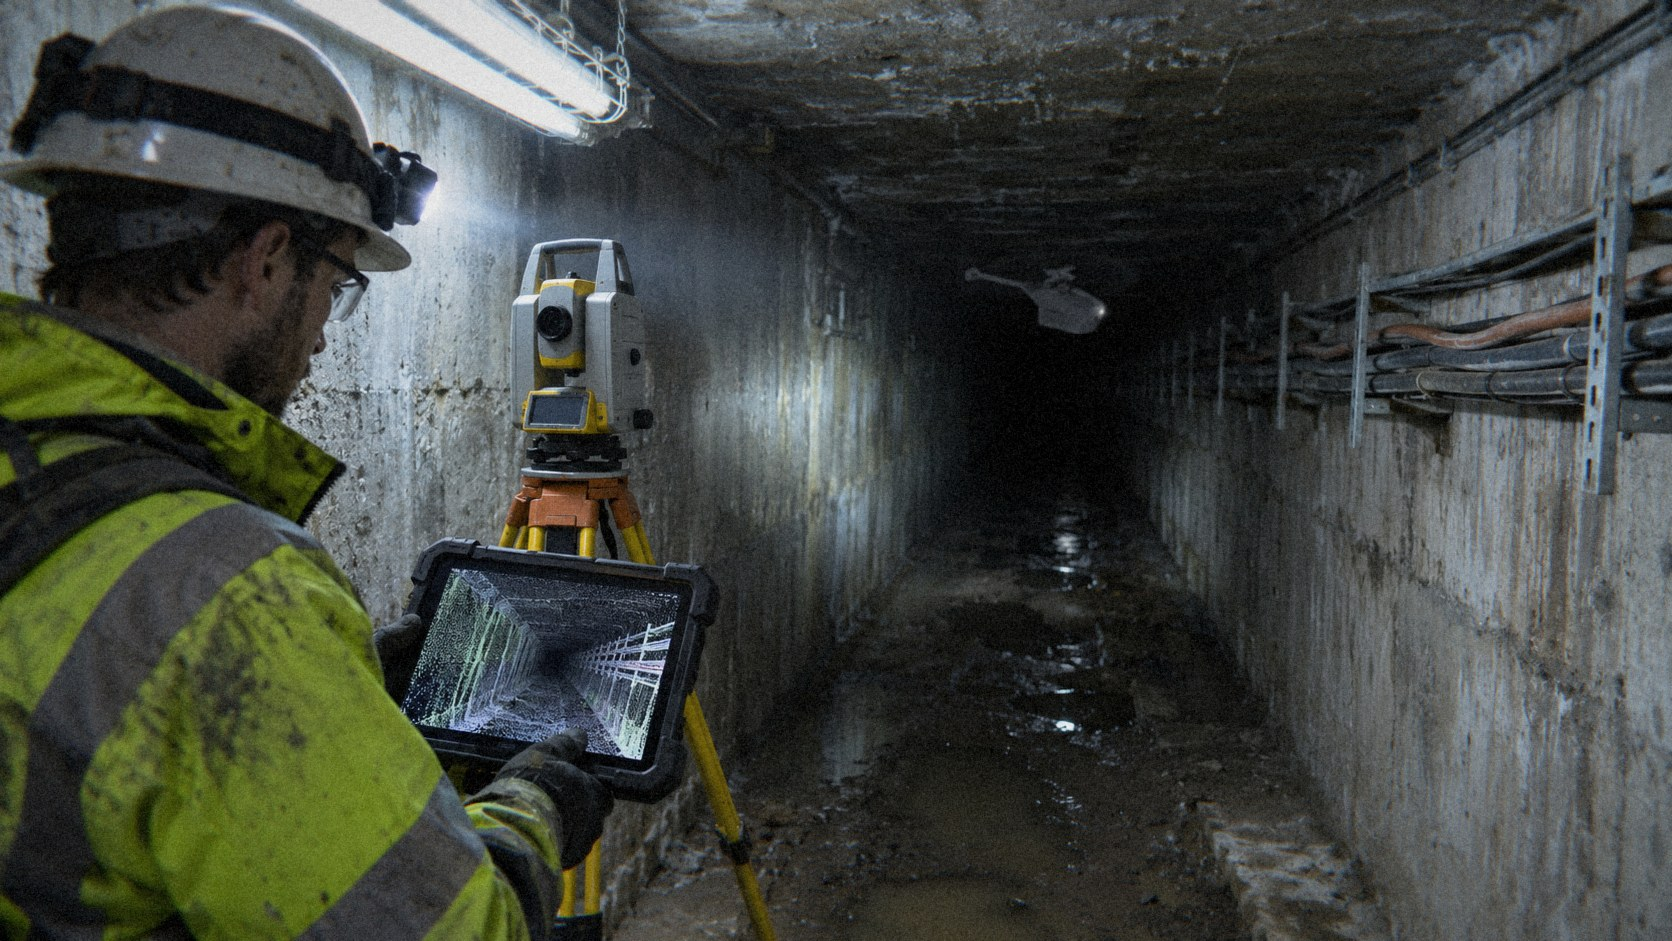
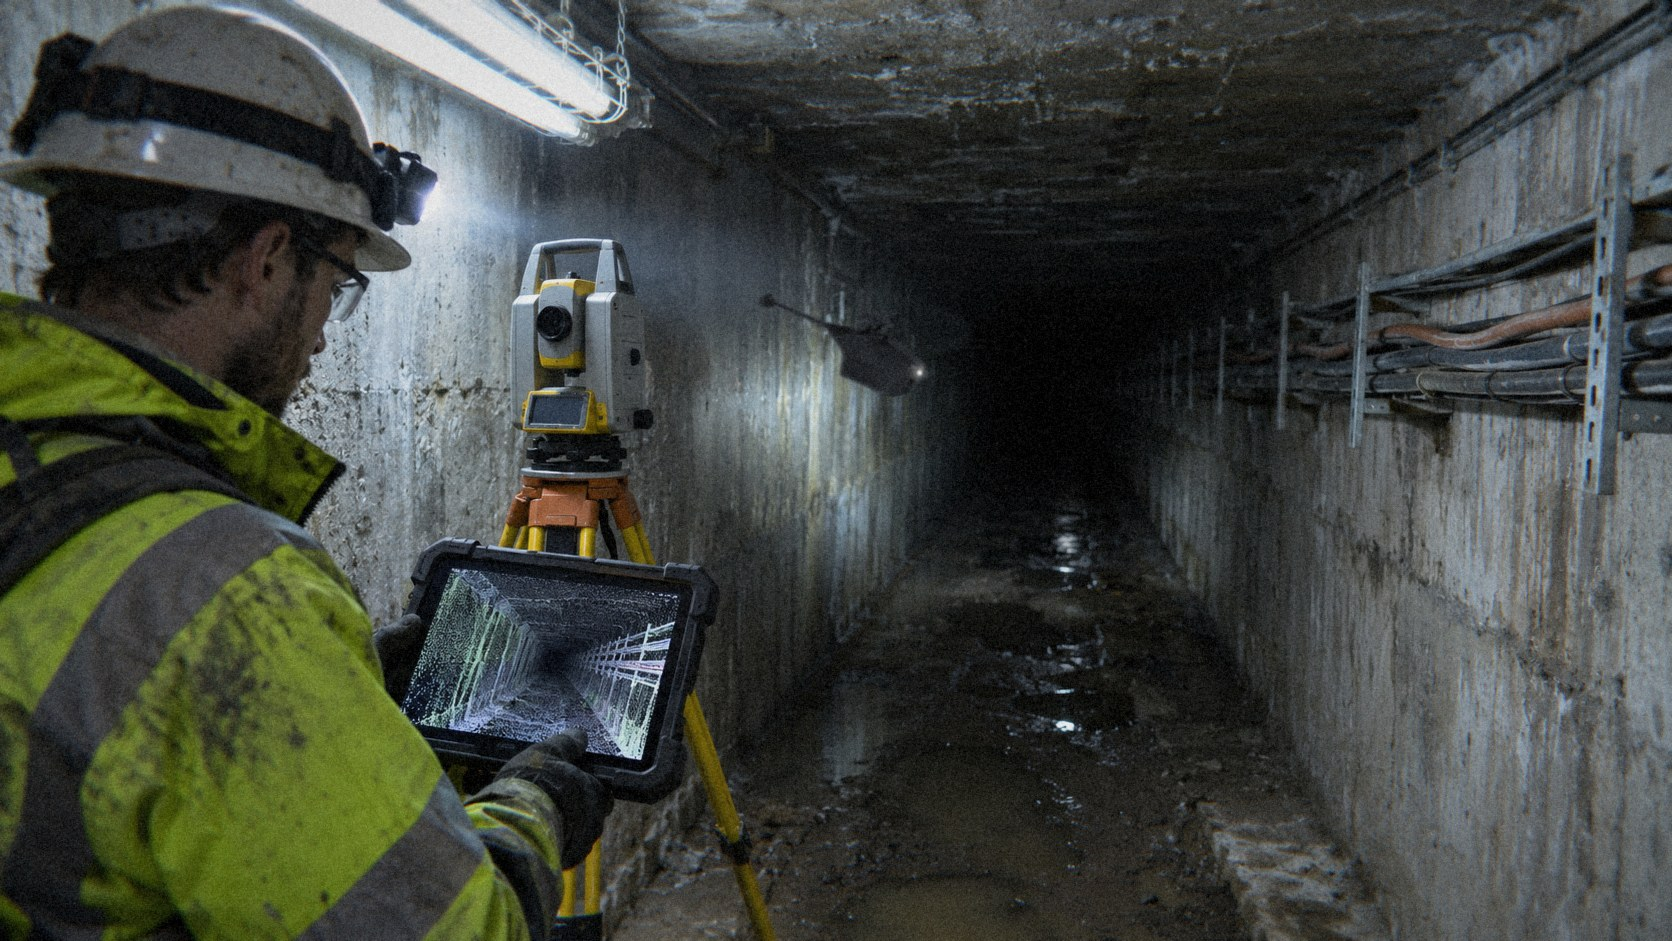
Use: top-down camera views for Security and Firefighters, tunnel drone
- Security: Nightjar's straight-down view of a guarded compound at night,
  day camera with a faint thermal blend; only the hotspots (three
  intruders, the grinder at the fence) in strong thermal colour, boxed as
  detections, small camera HUD
- Firefighters: thermal-dominant (ironbow, MSX edges) view over a burning
  city block; smoke see-through, labelled fires and a hidden hot spot
  under the smoke, temperature scale
- Surveying: the drone now flies nose-first into the tunnel
- Content kept inside the centre of each frame for the narrow panel crops

Changed region(s): [[0.5598, 0.2774, 0.6842, 0.3698], [0.4976, 0.339, 0.5598, 0.4315], [0.4354, 0.3082, 0.4665, 0.339]]

diff --git a/src/content.js b/src/content.js
@@ -38,21 +38,21 @@ export const uses = {
   scenes: [
     {
       image: '/images/use-security.jpg',
-      alt: 'Nightjar above security guards catching an intruder at night',
+      alt: 'Nightjar day and thermal view from above: three intruders cutting the fence of a guarded compound at night',
       title: 'Security',
       subtitle: 'Public and physical protection',
       text: 'A look around, day or night. Quiet enough that nobody notices it is there',
     },
     {
       image: '/images/use-fire.jpg',
-      alt: 'Nightjar above hikers cut off by a brush fire',
+      alt: 'Nightjar thermal view from above a burning building in a city block, with a hidden hot spot under the smoke',
       title: 'Firefighters',
       subtitle: 'Fire monitoring and rescue',
       text: 'Thermal view of hot spots, the fire front and people in danger, from a safe distance',
     },
     {
       image: '/images/use-surveying.jpg',
-      alt: 'Nightjar mapping a narrow tunnel',
+      alt: 'Nightjar flying into a narrow tunnel to map it',
       title: 'Surveying',
       subtitle: 'Tunnels and tight spaces',
       text: 'Flies into narrow tunnels and shafts and maps the space around it',
